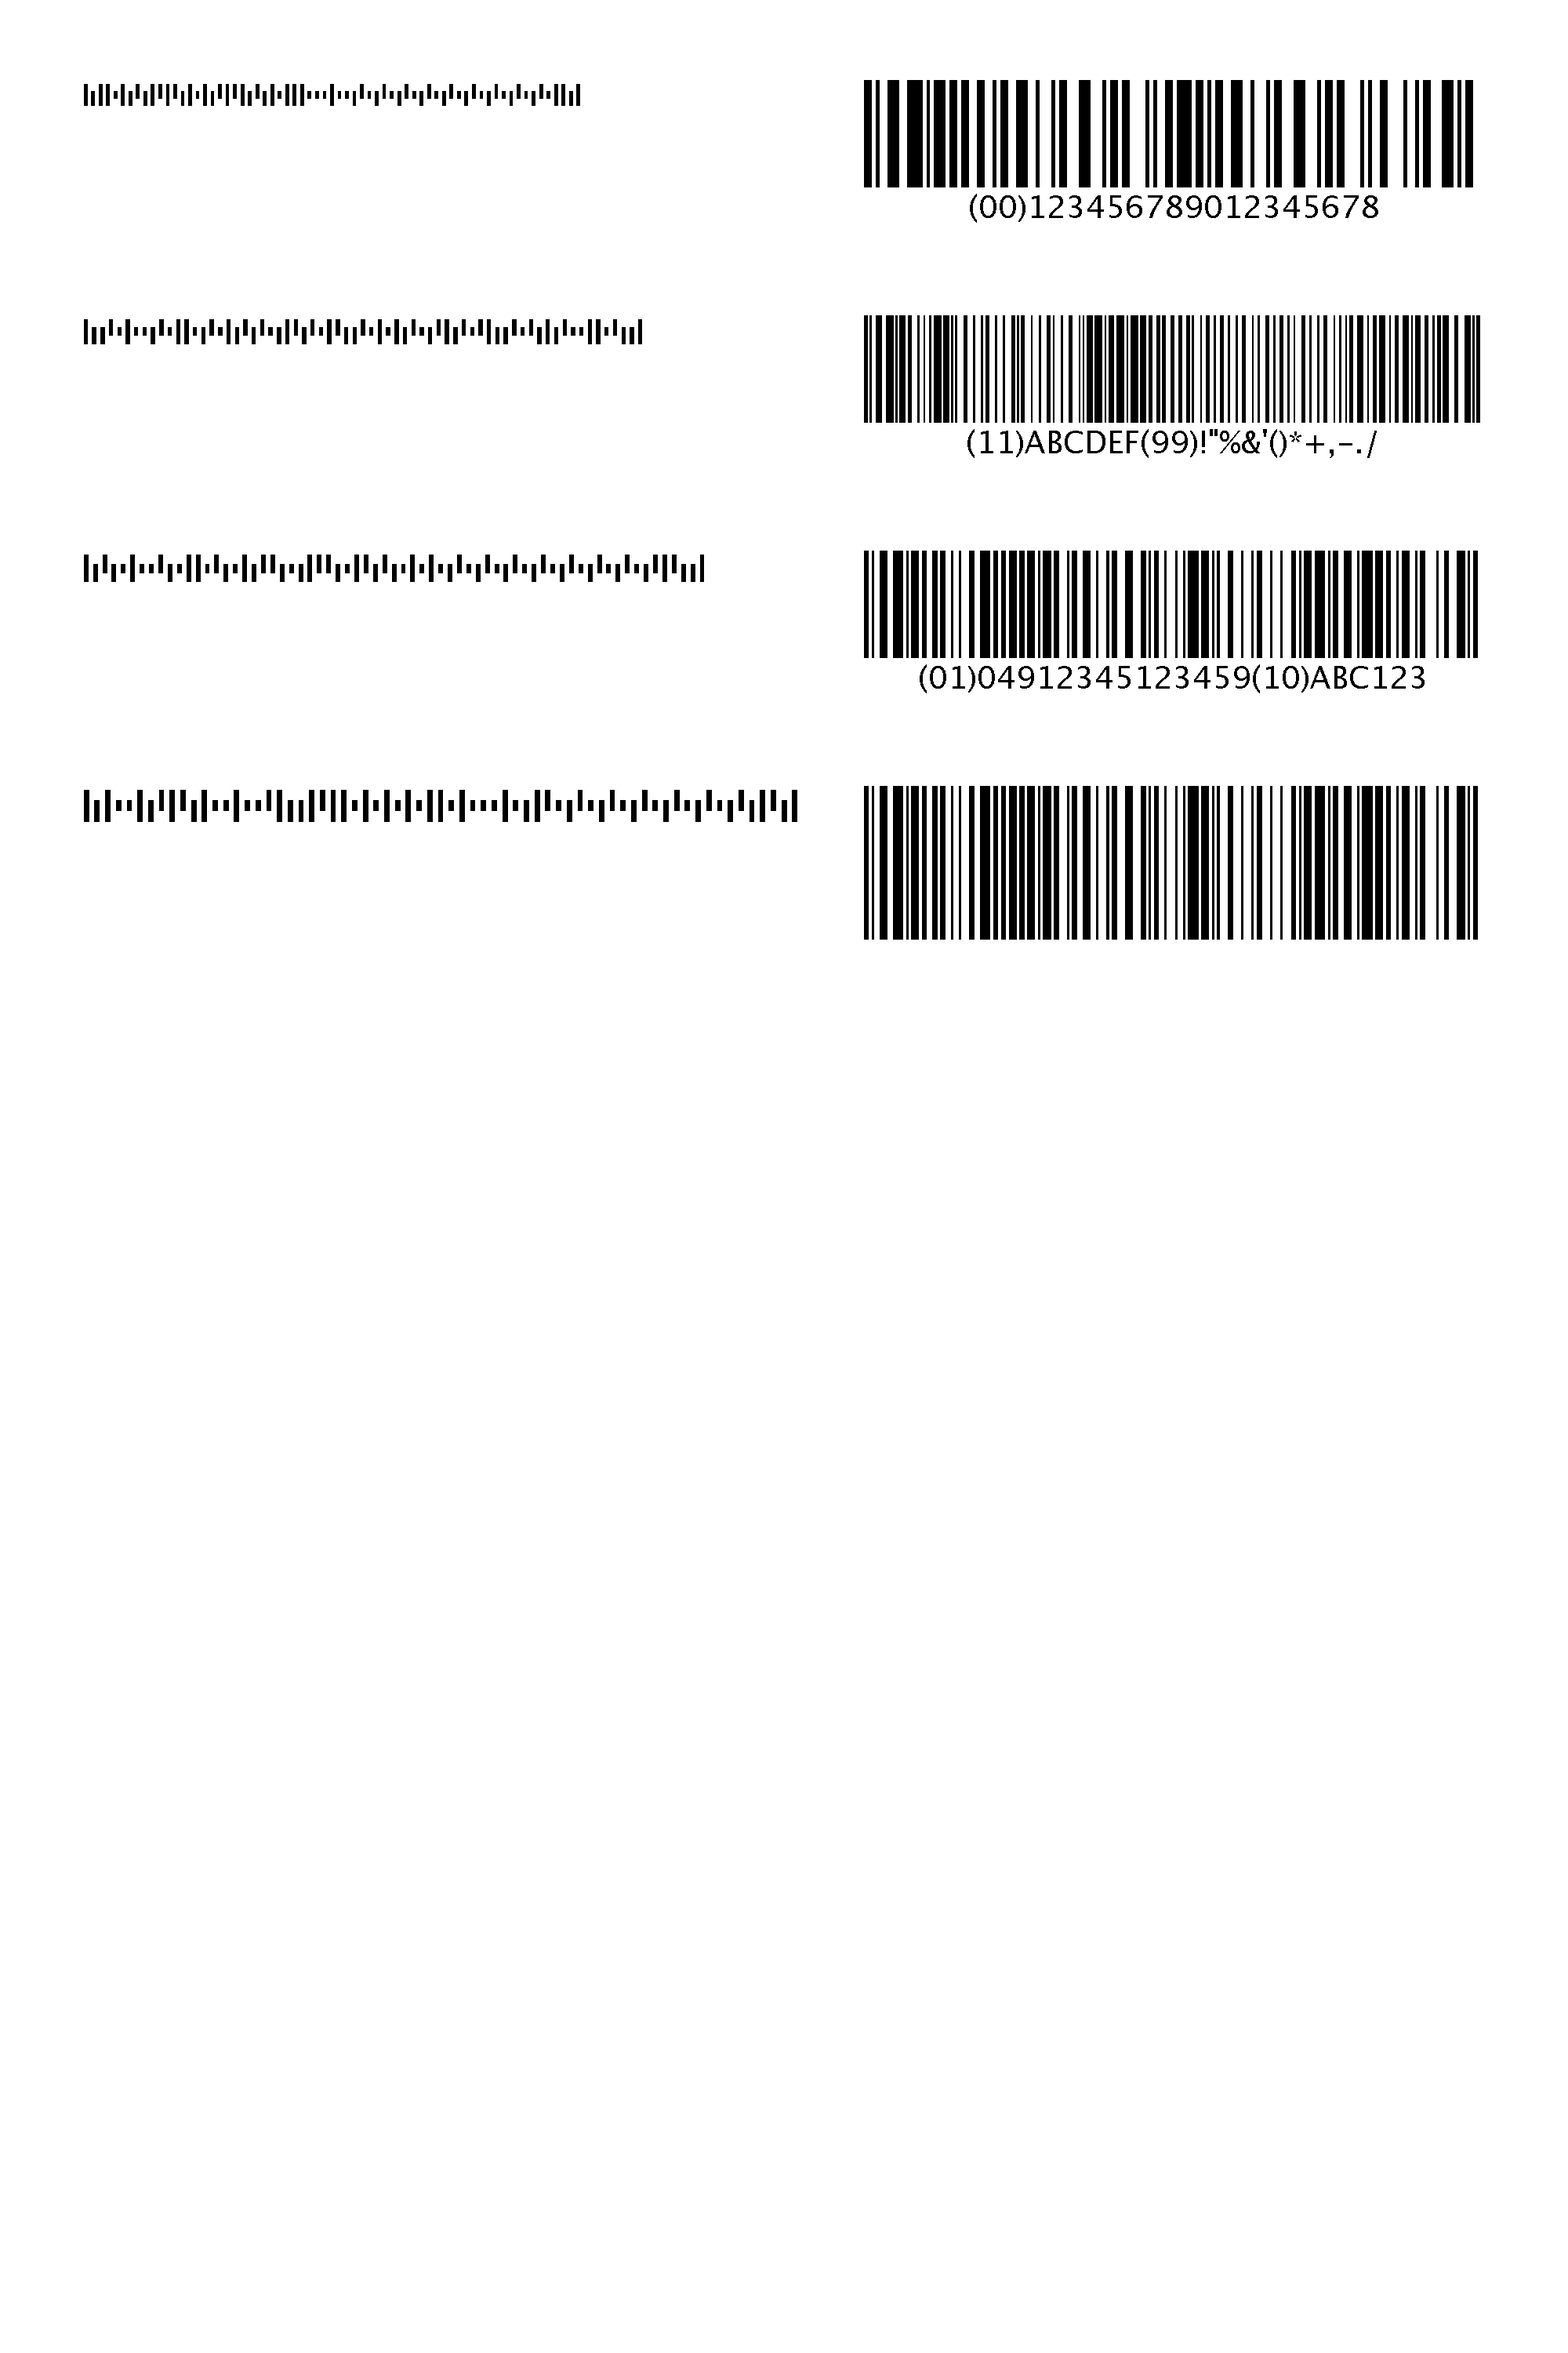
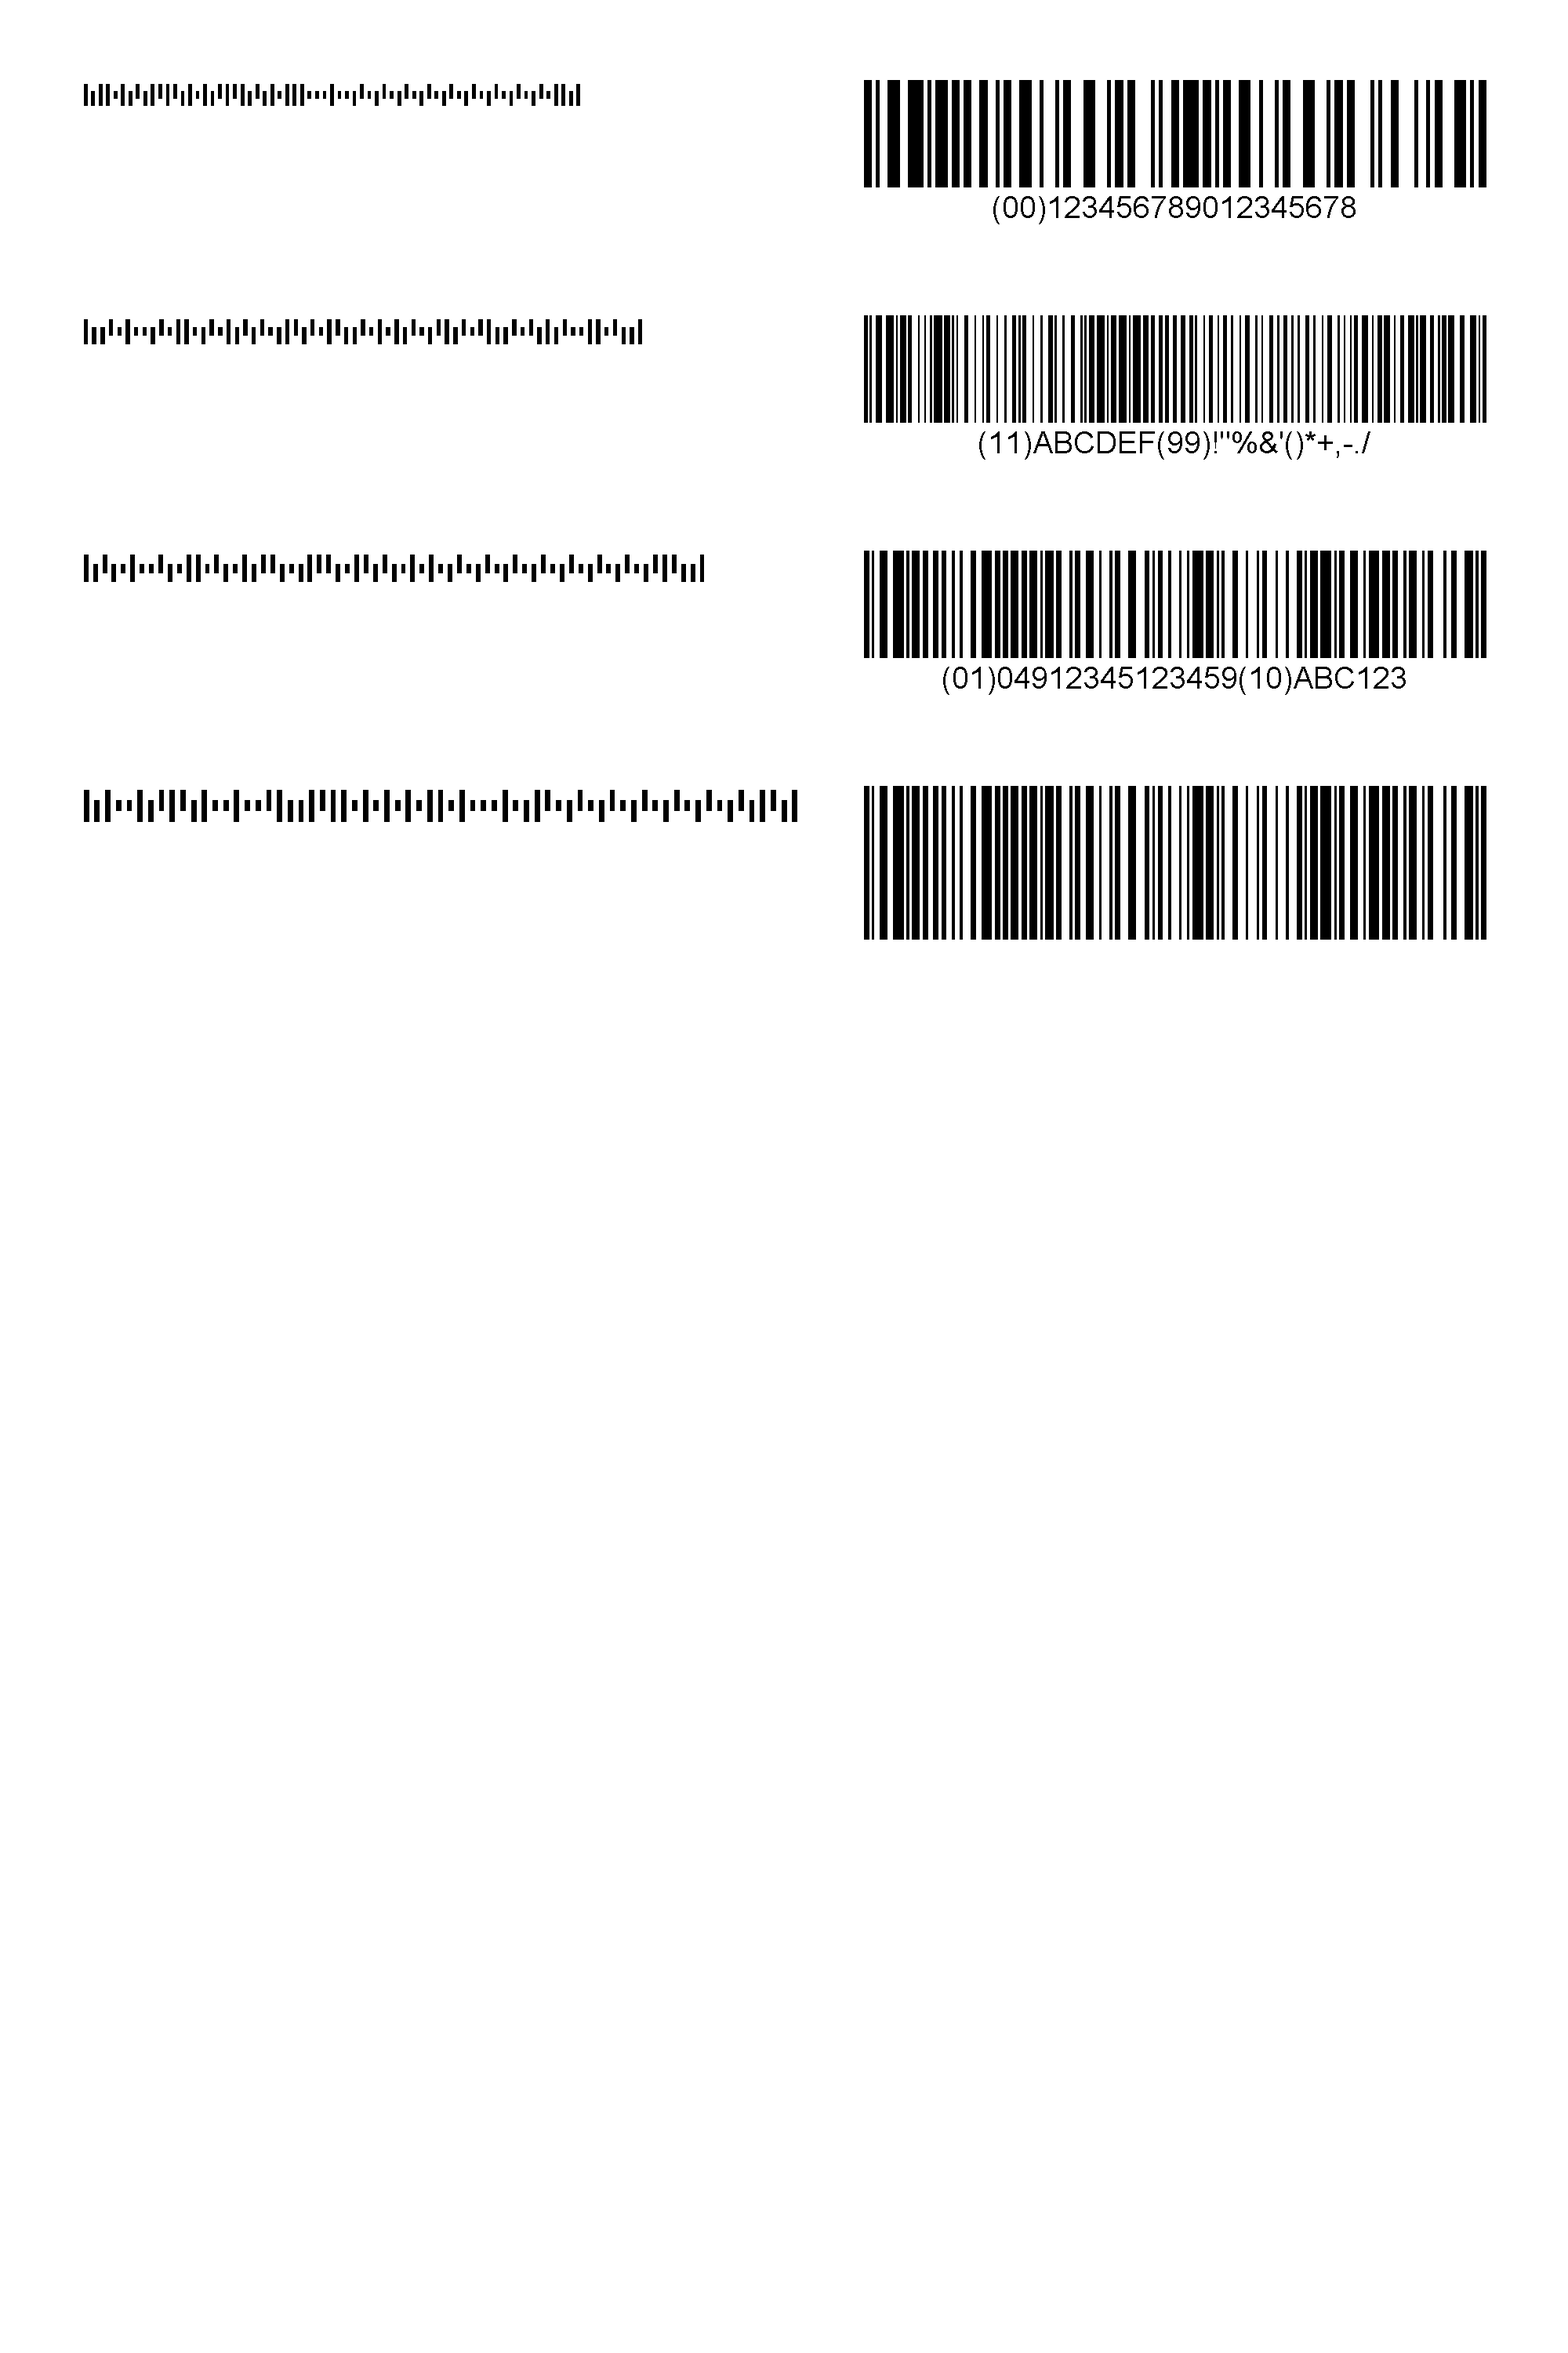
ITFバーコードのチェックデジット計算に対応
generateCheckSum変数の値によって有効・無効の切り替えを行う

Changed region(s): [[0.589, 0.124, 0.961, 0.403], [0.589, 0.031, 0.961, 0.093]]

diff --git a/src/jp/co/systembase/barcode/Itf.java b/src/jp/co/systembase/barcode/Itf.java
@@ -36,6 +36,8 @@ public class Itf extends Barcode {
 	private static final Integer[] START_PATTERN = {0, 0, 0, 0};
 	private static final Integer[] STOP_PATTERN = {1, 0, 0};
 
+	public boolean generateCheckSum = false;
+
 	public List<Integer[]> encode(String data) {
 		if (data == null || data.length() == 0) {
 			return null;
@@ -77,10 +79,38 @@ public class Itf extends Barcode {
 		}
 	}
 
+	private int calcCheckDigit(String data) {
+		if (data.length() % 2 == 0) {
+			throw new IllegalArgumentException("illegal data length: " + data + ", must odd number");
+		}
+
+		int sum = 0;
+		for (int i = data.length() - 1; i >= 0; i--) {
+			int n = data.charAt(i) - 0x30; // - '0'
+			sum += i % 2 != 0 ? n: n * 3;
+		}
+
+		int checkNum = 10;
+		int cd = checkNum - (sum % checkNum);
+		if (cd == checkNum) {
+			cd = 0;
+		}
+
+		return cd;
+	}
+
 	protected String _encode(String data) {
 		StringBuilder sb = new StringBuilder(data);
-		if (sb.length() % 2 != 0) {
-			sb.insert(0, "0");
+		if (generateCheckSum) {
+			if (sb.length() % 2 == 0) {
+				sb.insert(0, "0");
+			}
+			int cd = calcCheckDigit(sb.toString());
+			sb.append(Integer.toString(cd));
+		} else {
+			if (sb.length() % 2 != 0) {
+				sb.insert(0, "0");
+			}
 		}
 		return sb.toString();
 	}

diff --git a/src.test/Test.java b/src.test/Test.java
@@ -68,9 +68,10 @@ public class Test {
 				Itf b = new Itf();
 				b.render(g, 1300, 1500, 500, 200, "12345678901231");
 				b.render(g, 1300, 1800, 500, 200, "14901234567891");
-				b.render(g, 1300, 2100, 500, 200, "104901234567893");
+				b.generateCheckSum = true;
+				b.render(g, 1300, 2100, 500, 200, "1234567890123");
 				b.withText = false;
-				b.render(g, 1300, 2400, 500, 200, "12345678901231");
+				b.render(g, 1300, 2400, 500, 200, "1234567890123");
 			}
 			try {
 				ImageIO.write(i, "png", new File("output/test.png"));
